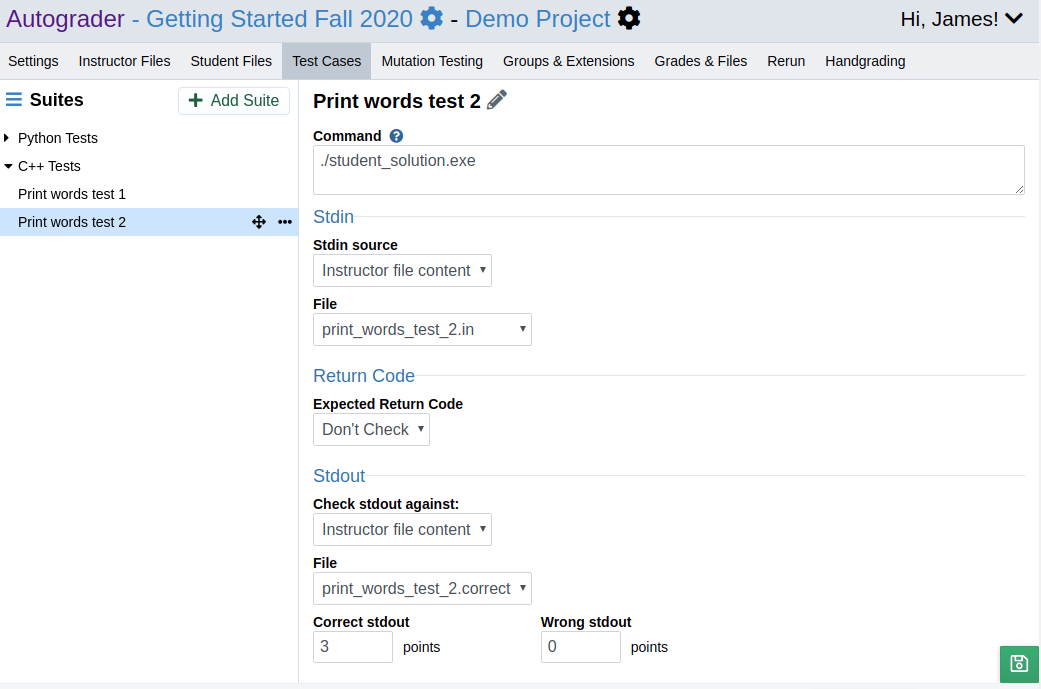
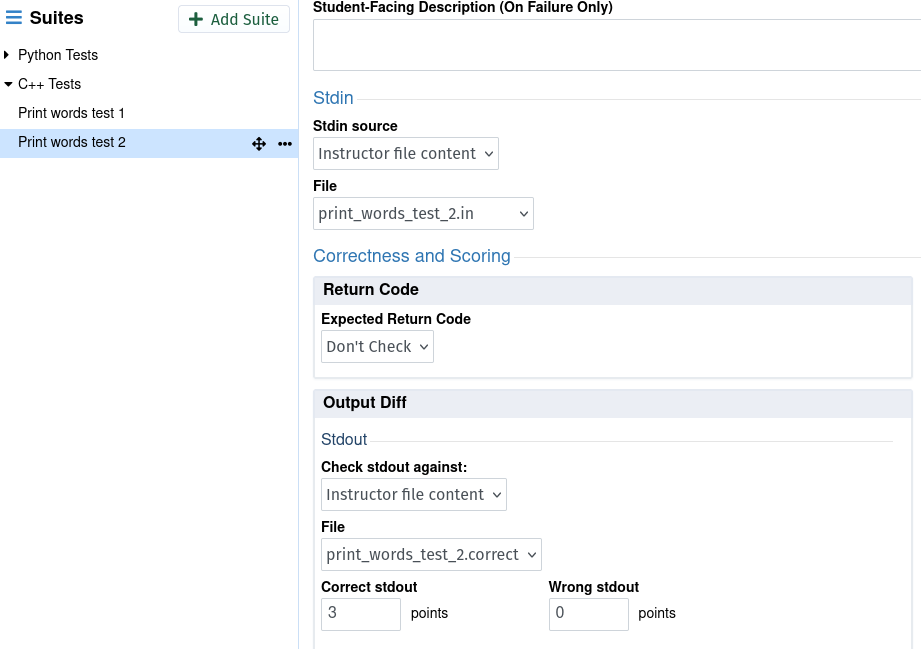
Update docs for custom scoring and UI changes

diff --git a/docs/getting_started/code_files/test_is_palindrome.py b/docs/getting_started/code_files/test_is_palindrome.py
@@ -1,0 +1,46 @@
+from is_palindrome import is_palindrome
+
+def test_is_palindrome():
+    palindromes = [
+        'abba',
+        'Abba',
+        'abcba'
+    ]
+
+    not_palindromes = [
+        'abc',
+        'ab',
+    ]
+
+    # Start with fullpoints and subtract 1 for each incorrect result
+    score = 5
+    for word in palindromes:
+        # we want to make sure that student code doesn't crash the program,
+        # preventing us from outputting a score (or worse, them outputting their
+        # own score and then crashing the program)
+        try:
+            if not is_palindrome(word):
+                score -= 1
+                print("-1: {} is a palindrome,".format(word),
+                      'but is_palindrome("{}") returned False'.format(word))
+        except:
+            score -= 1
+            print("-1: is_palindrome({}) raised an exception".format(word))
+
+    for word in not_palindromes:
+        # we want to make sure that student code doesn't crash the program,
+        # preventing us from outputting a score (or worse, them outputting their
+        # own score and then crashing the program)
+        try:
+            if is_palindrome(word):
+                score -= 1
+                print("-1: {} is not a palindrome,".format(word),
+                      'but is_palindrome("{}") returned True'.format(word))
+        except:
+            score -= 1
+            print('-1: is_palindrome("{}") raised an exception'.format(word))
+
+    print("<!! score: {} !!>".format(score))
+
+if __name__ == '__main__':
+    test_is_palindrome()

diff --git a/docs/getting_started/code_files/is_palindrome.py b/docs/getting_started/code_files/is_palindrome.py
@@ -1,0 +1,8 @@
+def is_palindrome(word):
+    # intentional bugs: 
+    #   - accepts all words with odd length as palindromes
+    #   - is not case-insensitive for palindromes with even length
+    if len(word) % 2 != 0 or word == word[::-1]:
+        return True
+    else:
+        return False

diff --git a/docs/getting_started/adding_test_cases.rst b/docs/getting_started/adding_test_cases.rst
@@ -28,20 +28,27 @@ you follow this guide. The files can also be found
 .. literalinclude:: ./code_files/student_solution.cpp
     :caption: student_solution.cpp
 
+.. literalinclude:: ./code_files/is_palindrome.py
+    :caption: is_palindrome.py
+
+.. literalinclude:: ./code_files/test_is_palindrome.py
+    :caption: test_is_palindrome.py
+
 Upload Instructor Test Case Files
 ---------------------------------
 In the project admin page, click on the "Instructor Files Tab" and then upload
-the files **test_math_funcs.py**, **print_words_test_1.in**,
-**print_words_test_1.correct**, **print_words_test_2.in**,
-**print_words_test_2.correct** from the previous section.
+the files **test_math_funcs.py**, **test_is_palindrom.py**,
+**print_words_test_1.in**, **print_words_test_1.correct**,
+**print_words_test_2.in**, **print_words_test_2.correct** from the previous
+section.
 
 .. image:: /pics/adding_test_cases/instructor_files.gif
 
 
 Configure Files Students Should Submit
 --------------------------------------
-Click on the "Student Files" tab and add **math_funcs.py** and
-**student_solution.cpp** as expected student files.
+Click on the "Student Files" tab and add **math_funcs.py**,
+**is_palindrome.py**, and **student_solution.cpp** as expected student files.
 
 .. image:: /pics/adding_test_cases/expected_student_files.gif
 
@@ -62,10 +69,11 @@ dialogue that appears, name the suite "Python Tests".
 .. image:: /pics/adding_test_cases/new_test_suite.png
 
 Scroll down to the section labelled "Instructor Files" and select
-**test_math_funcs.py** from the dropdown. Similarly, select **math_funcs.py**
-in the "Student Files" section.
+**test_math_funcs.py** and **test_is_palindrom.py** from the dropdown.
+Similarly, select **math_funcs.py** and **is_palindrome.py** in the
+"Student Files" section.
 
-.. image:: /pics/adding_test_cases/python_suite_instr_files.gif
+.. image:: /pics/adding_test_cases/python_suite_files.gif
 
 Scroll to the bottom of the page and click the "Save" button.
 Since we're using Python, we don't need to use the "setup" option.
@@ -81,13 +89,13 @@ dialogue that appears, name the test "Test Add" and set its command to
 Then, set the following options and click the "save" icon or the "Save" button
 at the bottom of the page.
 
-* **Expected Return Code:** Zero
+* **Correctness and Scoring -> Return Code -> Expected Return Code:** Zero.
   This tells us that the test is "correct" if the exit status of the program is
   zero.
-* **Correct return code:** 2 points
+* **Correctness and Scoring -> Return Code -> Correct return code:** 2 points.
   This tells us that the student's submission will be awarded 2 points for
   exiting with the correct status (zero in this case).
-* **Feedback -> Normal -> Preset:** Pass/Fail
+* **Feedback -> Normal -> Preset:** Pass/Fail.
   This specifies that students will only see whether their code passed this
   test. Output is hidden in order to prevent our test cases from being leaked.
 
@@ -115,8 +123,8 @@ Once the submission is finished grading, we'll want to
 Click on the panel for "Test Add", and you'll see that under "Normal" feedback
 we don't see any output from the test case. Our first test is good to go!
 
-Clone the Test Case to Complete the Suite
-"""""""""""""""""""""""""""""""""""""""""
+Clone the Test Case to Create the Rest of the Math Function Tests
+"""""""""""""""""""""""""""""""""""""""""""""""""""""""""""""""""
 Rather than creating the rest of our tests from scratch, we'll clone the test
 we made in the previous section and make small changes to the clones. Hover
 over the **...** menu in the "Test Add" panel and click on "Clone test case".
@@ -129,14 +137,41 @@ save button. Repeat this process one more time to create "Test Multiply".
 
 .. image:: /pics/adding_test_cases/python_clone_tests.gif
 
-Head back over to the submission page and submit ``math_funcs.py``. Since
-there's a bug in ``math_funcs.py``, we should see two tests passing and one
-test failing.
+Create One More Python Test Using Custom Scoring
+""""""""""""""""""""""""""""""""""""""""""""""""
+There may be times when you want more control over how many points you assign
+for a test case. The "Custom Scoring" feature allows your test code to assign
+points by outputting a specially formatted string to an output stream.
 
-.. image:: /pics/adding_test_cases/python_all_tests_one_failure.png
+Create a new test case from scratch, naming it "Test Is Palindrome" and set its
+command to ``python3 test_is_palindrome.py``. Then, set the following options
+and click the "save" icon or the "Save" button at the bottom of the page.
 
-Fix the bug in ``math_funcs.py``, submit again, and you should see all three
-tests pass. We now have a fully-working suite of Python unit tests!
+* **Correctness and Scoring -> Custom Scoring -> Enable custom scoring**:
+  checked. This will enable custom scoring, using the default output pattern and
+  parsing the pattern from ``stdout``.
+* **Correctness and Scoring -> Custom Scoring -> Max custom scoring points**: 5
+  points. This specifies that maximum number of points to expect when parsing
+  the score from the output. If a value higher than this is parsed, an error
+  will occur (negative values are allowed, however).
+* **Feedback -> Normal -> Preset:** Pass/Fail. When using custom scoring, this
+  specifies that only the number of points assigned will be shown to students
+  and not the actual output of the test command.
+
+.. image:: /pics/adding_test_cases/python_create_custom_scoring_test.gif
+
+Go back to the submission page and submit ``math_funcs.py`` and
+``is_palindrome.py``. You should two tests passing, one failing, and the latest
+test with partial points. Click on the **"Test Is Palindrome"** test case and
+you should see the actual ``stdout`` output, but when we switch to **"Normal"**
+from the "Adjust Feedback" dropdown menu you'll see that this is hidden from
+students.
+
+.. image:: /pics/adding_test_cases/python_all_tests_results.gif
+
+Fix the bugs in ``math_funcs.py`` and ``is_palindrome.py``, submit again, and
+you should see all four tests pass. We now have a fully-working suite of Python
+unit tests!
 
 Create a Test Suite with C++ Output Tests
 ^^^^^^^^^^^^^^^^^^^^^^^^^^^^^^^^^^^^^^^^^
@@ -206,5 +241,5 @@ want to show that much information to students. Scroll up and change the
 "Adjust Feedback" dropdown to "Normal" to verify that the diff is hidden from
 students.
 
-Finally, fix the bug in student_solution.cpp, submit ``math_funcs.py`` and
-``student_solution.cpp``, and see all the tests pass!
+Finally, fix the bug in student_solution.cpp, submit ``math_funcs.py``,
+``is_palindrome.py``, and ``student_solution.cpp``, and see all the tests pass!
